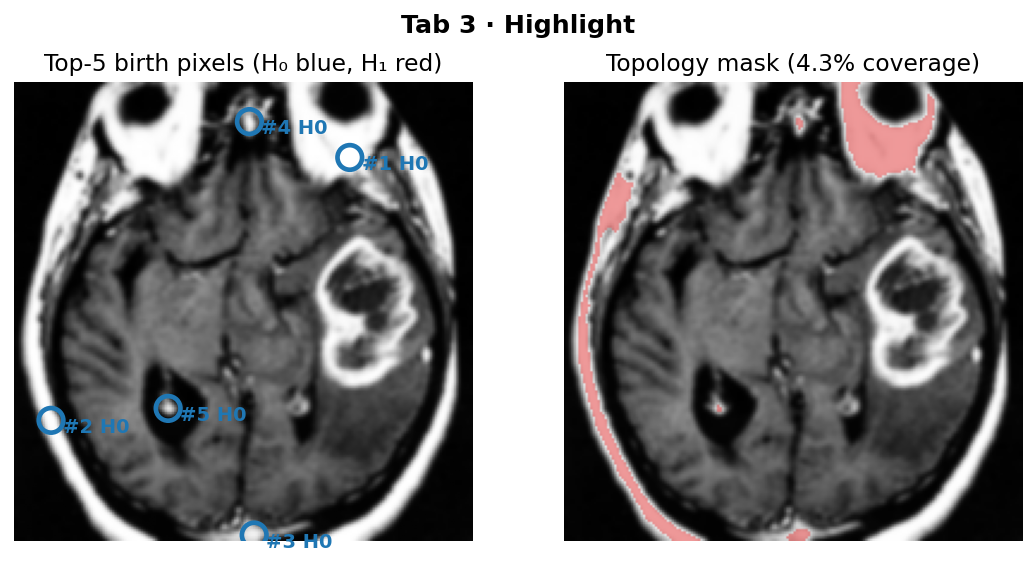
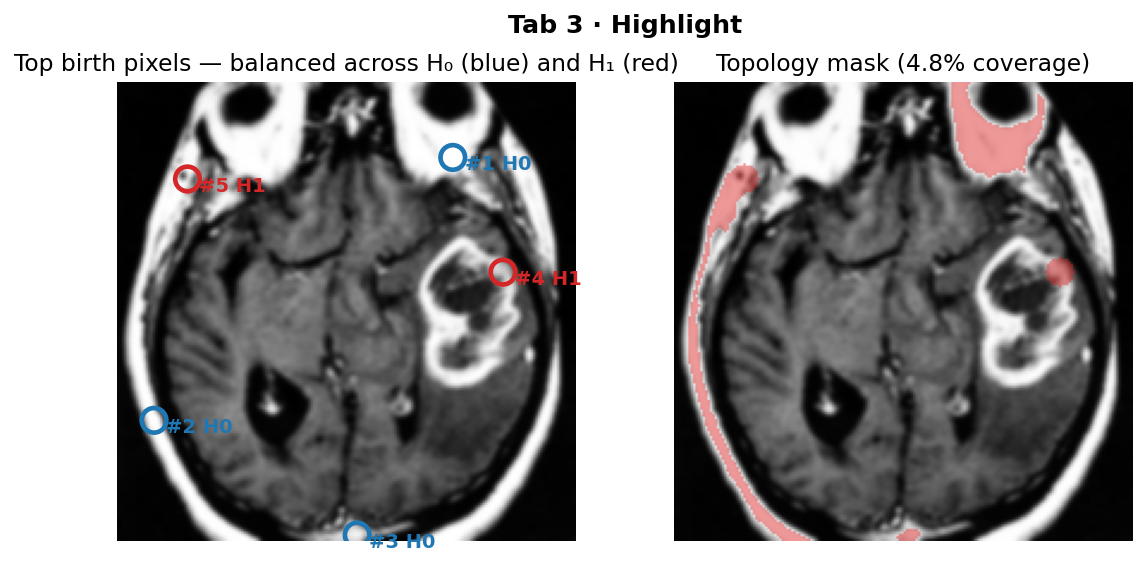
Balance top-k highlights across H0 and H1 dimensions
On non-skull-stripped MRI, naive top-k by persistence is dominated by
H0 features born at saturated skull/scalp pixels — the H1 loop on a
ring-enhanced lesion ranks below the cutoff even though it's the
discriminative signal. Verified on data/samples/05_tumor_ring_axial:
old top-5 was 5 skull H0 features (none on the lesion); new balanced
top-5 includes the lesion's H1 loop at (161, 79) persistence=0.704.

- backend/persistence.py: new select_top_features helper that splits
  the budget across topological dimensions; topology_mask gains a
  balanced=True default that delegates to it.
- app.py: top-k slider help text explains the dim split.
- scripts/generate_screenshots.py: highlight tab uses the same
  balanced selection for circle markers, with updated title.
- README highlight section: rewrites the caption around the dim split
  and explains why naive top-k misses the lesion on these images.
- All assets/ screenshots regenerated.

Tests: 23/23 still pass.

diff --git a/backend/persistence.py b/backend/persistence.py
@@ -366,6 +366,51 @@ def _uf_persistence(
 # ---------------------------------------------------------------------------
 
 
+def select_top_features(
+    pairs: Sequence[PersistencePair],
+    top_k: int = 5,
+    *,
+    min_persistence: float = 0.0,
+    balanced: bool = True,
+) -> list[PersistencePair]:
+    """Pick ``top_k`` features for highlighting.
+
+    With ``balanced=True`` (default) the budget is split across topological
+    dimensions present in ``pairs`` — top ``ceil(top_k/n_dims)`` of each.
+    Without that, on non-skull-stripped MRI the H0 ranking is dominated by
+    skull/scalp brightness and H1 (loop) features get crowded out, even
+    though loops are typically the more diagnostic signal for ring-enhanced
+    lesions.
+
+    With ``balanced=False`` the selection is the naive top-k by persistence
+    across all dimensions.
+    """
+    finite = [
+        p for p in pairs
+        if p.birth_xy is not None
+        and not np.isinf(p.persistence)
+        and p.persistence >= min_persistence
+    ]
+    if not balanced:
+        return sorted(finite, key=lambda p: p.persistence, reverse=True)[:top_k]
+
+    by_dim: dict[int, list[PersistencePair]] = {}
+    for p in finite:
+        by_dim.setdefault(p.dim, []).append(p)
+    if not by_dim:
+        return []
+    for d in by_dim:
+        by_dim[d].sort(key=lambda p: p.persistence, reverse=True)
+
+    dims = sorted(by_dim.keys())
+    base, extra = divmod(top_k, len(dims))
+    out: list[PersistencePair] = []
+    for i, d in enumerate(dims):
+        n = base + (1 if i < extra else 0)
+        out.extend(by_dim[d][:n])
+    return out
+
+
 def topology_mask(
     image: np.ndarray,
     pairs: Sequence[PersistencePair],
@@ -373,6 +418,7 @@ def topology_mask(
     top_k: int = 5,
     min_persistence: float = 0.20,
     grow_radius: int = 4,
+    balanced: bool = True,
 ) -> np.ndarray:
     """Build a binary mask of the ``top_k`` highest-persistence features.
 
@@ -387,6 +433,10 @@ def topology_mask(
     Defaults err on the side of *under-covering*: a small, confident
     highlight is more useful than a flood that buries the original image.
 
+    With ``balanced=True`` (default) the ``top_k`` budget is split across
+    H0 and H1 via :func:`select_top_features`, which keeps loop features
+    visible on images where H0 is dominated by skull/scalp brightness.
+
     Returns
     -------
     np.ndarray
@@ -397,19 +447,15 @@ def topology_mask(
     mask = np.zeros((H, W), dtype=bool)
     yy, xx = np.ogrid[:H, :W]
 
-    finite = [
-        p for p in pairs
-        if p.birth_xy is not None
-        and not np.isinf(p.persistence)
-        and p.persistence >= min_persistence
-    ]
-    finite.sort(key=lambda p: p.persistence, reverse=True)
+    selected = select_top_features(
+        pairs, top_k=top_k, min_persistence=min_persistence, balanced=balanced
+    )
 
     # Cap per-seed area so one very-persistent feature can't flood the image.
     max_region_size = int(0.05 * H * W)
     fallback_radius_sq = 36  # 6-pixel radius
 
-    for pair in finite[:top_k]:
+    for pair in selected:
         x, y = pair.birth_xy
         if not (0 <= x < W and 0 <= y < H):
             continue

diff --git a/scripts/generate_screenshots.py b/scripts/generate_screenshots.py
@@ -142,19 +142,16 @@ def _screenshot_persistence(result: dict, out: Path) -> None:
 
 def _screenshot_highlight(arr: np.ndarray, result: dict, out: Path) -> None:
     pairs = list(result["dim0"]) + list(result["dim1"])
+    selected = persistence.select_top_features(pairs, top_k=5, min_persistence=0.20)
     mask = persistence.topology_mask(arr, pairs, top_k=5, min_persistence=0.20)
     overlay = utils.overlay_mask(arr, mask)
 
     fig, axes = plt.subplots(1, 2, figsize=(8, 4))
     axes[0].imshow(arr, cmap="gray", vmin=0, vmax=1)
     axes[0].axis("off")
-    axes[0].set_title("Top-5 birth pixels (H₀ blue, H₁ red)")
-    finite = sorted(
-        [p for p in pairs if p.birth_xy is not None and not np.isinf(p.persistence)],
-        key=lambda p: p.persistence, reverse=True,
-    )
+    axes[0].set_title("Top birth pixels — balanced across H₀ (blue) and H₁ (red)")
     dim_colors = {0: "#1f77b4", 1: "#d62728"}
-    for rank, p in enumerate(finite[:5]):
+    for rank, p in enumerate(selected):
         x, y = p.birth_xy
         c = dim_colors.get(p.dim, "#ff3333")
         axes[0].scatter([x], [y], s=160, facecolors="none", edgecolors=c, linewidths=2.4)

diff --git a/app.py b/app.py
@@ -138,7 +138,12 @@ def _sidebar() -> tuple[bytes | None, dict]:
         "Min persistence to plot", 0.00, 0.50, 0.05, 0.01,
         help="Bars below this lifetime are dropped before plotting / scoring.",
     )
-    top_k = st.sidebar.slider("Top-k features to highlight", 1, 12, 5)
+    top_k = st.sidebar.slider(
+        "Top-k features to highlight", 1, 12, 5,
+        help="Budget is split across H₀ (bright components) and H₁ (loops) so "
+        "loop features stay visible on non-skull-stripped images where H₀ "
+        "tends to be dominated by skull/scalp brightness.",
+    )
 
     st.sidebar.markdown("---")
     st.sidebar.markdown(DISCLAIMER)

diff --git a/README.md b/README.md
@@ -79,13 +79,20 @@ tracks connected components (bright blobs); H₁ (red) tracks loops
 
 ### 3 · Highlight — turning persistence into a spatial mask
 
-![Highlight tab — top-k birth pixels and overlay mask](./assets/screenshot_highlight.png)
+![Highlight tab — top birth pixels and overlay mask](./assets/screenshot_highlight.png)
 
-The top-`k` most persistent features have their **birth pixels** marked
-on the slice (left), then flood-filled into an **overlay mask** (right).
-This is what makes persistence interpretable as a *highlight*: every
-red/blue circle traces back to a specific bar in the barcode you can
-click in the app.
+The top-`k` budget is split across H₀ (blue circles, bright connected
+components) and H₁ (red circles, loops). Each marker is the birth
+pixel of a specific persistence bar, then flood-filled into an
+**overlay mask** (right) with tolerance proportional to that bar's
+persistence. The split matters: on non-skull-stripped MRI like the
+shipped samples, the *unbalanced* top-5 is dominated by skull/scalp
+H₀ features (saturated bright pixels at the perimeter) and the lesion
+loop never makes the cut. With the balanced split, the H₁ loop on the
+ring-enhanced lesion (right side of the image, mid-height) gets
+selected and its flood-fill region is what overlays the tumor in the
+mask. See `select_top_features` in
+[`backend/persistence.py`](backend/persistence.py).
 
 ### 4 · Prediction — the score and the reason for it
 
